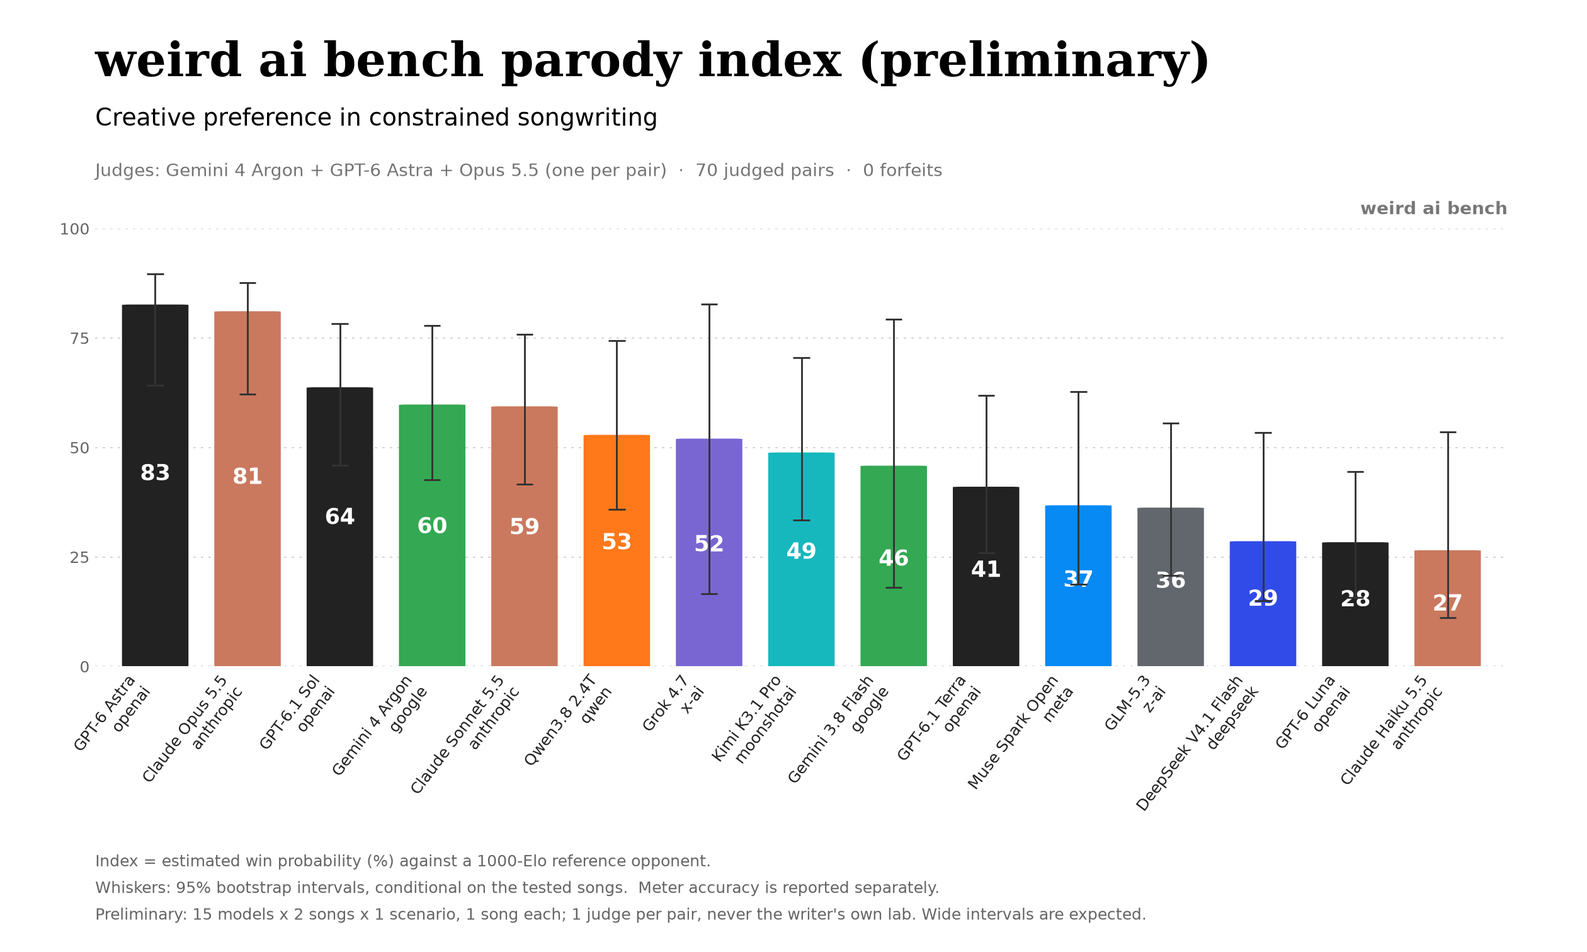
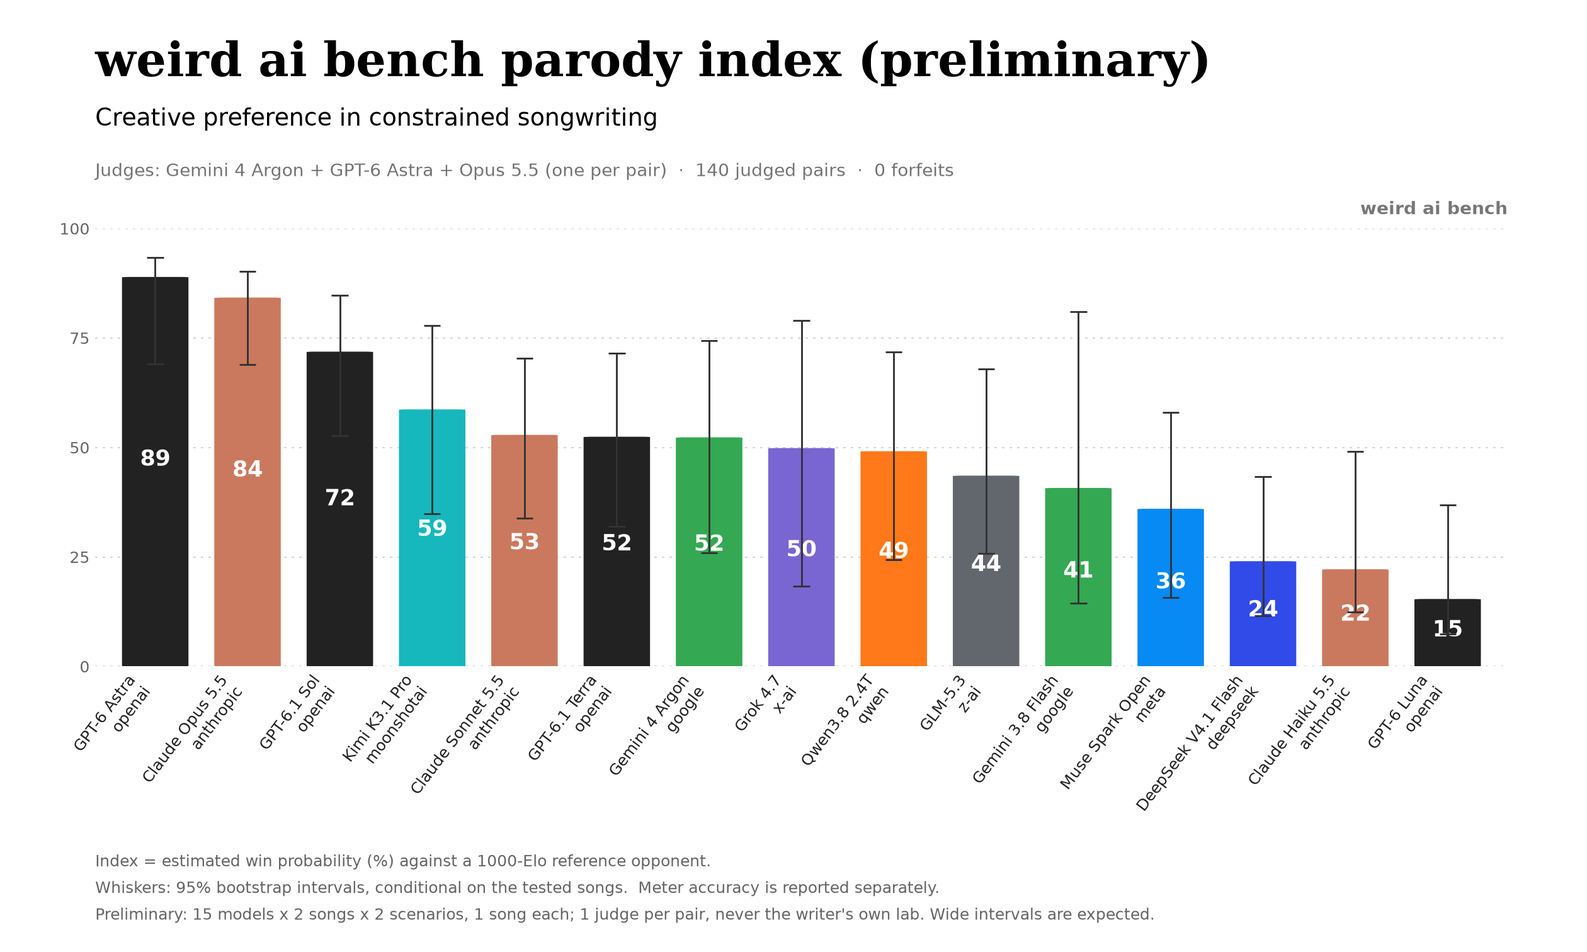
Don't count provider failures against models; add Boomer vs Zoomer results
A failed song used to forfeit all its pairs whatever the cause. Now the
client tags each error as the provider's (overload, 5xx, rate limits that
outlast the retries, network errors, an unavailable model) or the model's
(a refusal, every token spent before answering, empty replies). Model
failures still forfeit. Provider failures are saved with failed.kind
"provider", left out of leaderboard and stats with a warning naming them,
and listed under provider_failures in the JSON, so rerunning them fills the
gap. Runs saved before the kind existed count against the model unless their
error text is a recognisable service error.

README: the progress section now covers both scenarios (Dario vs Sam and
Boomer vs Zoomer), including one song rerun after a provider overload.

diff --git a/weird_ai_bench/leaderboard.py b/weird_ai_bench/leaderboard.py
@@ -36,6 +36,34 @@ def load_runs(paths: list[str]) -> list[dict]:
     return runs
 
 
+# Runs saved before failures recorded their kind: recognisable service errors are the
+# provider's; anything else keeps the old rule and counts against the model.
+_PROVIDER_FAILURE_TEXT = ("HTTP 4", "HTTP 5", "network error", "upstream_status", "high demand",
+                          "'code': 5", "'code': 429", "'code': 408", "rate limit", "overloaded")
+
+
+def failure_kind(run: dict) -> str | None:
+    """None for a finished song, else "provider" or "model" (see llm.LLMError)."""
+    failed = run.get("failed")
+    if not failed:
+        return None
+    if failed.get("kind") in ("provider", "model"):
+        return failed["kind"]
+    error = failed.get("error") or ""
+    return "provider" if any(t in error for t in _PROVIDER_FAILURE_TEXT) else "model"
+
+
+def split_provider_failures(runs: list[dict]) -> tuple[list[dict], list[dict]]:
+    """(runs that count, songs the provider failed). The second are left out of every ranking."""
+    keep = [r for r in runs if failure_kind(r) != "provider"]
+    return keep, [r for r in runs if failure_kind(r) == "provider"]
+
+
+def _provider_warning(dropped: list[dict]) -> str:
+    return (f"Left out {len(dropped)} song(s) the provider failed (not the model): "
+            + ", ".join(r["id"] for r in dropped) + ". Rerun them to fill the gap.")
+
+
 def group_key(run: dict) -> tuple:
     c = run["config"]
     template = json.dumps(asdict(result_spec(run)), sort_keys=True)
@@ -111,6 +139,7 @@ def gate_stats(runs: list[dict]) -> list[dict]:
     acc: dict[tuple, dict] = defaultdict(lambda: {"adherence": [], "turns": 0, "first": 0,
                                                     "final": 0, "retries": 0, "songs": 0,
                                                     "failed": 0, "judge": []})
+    runs, _ = split_provider_failures(runs)
     for r in runs:
         cfg = r["config"]
         spec = r.get("spec") or cfg.get("spec")
@@ -395,6 +424,9 @@ def leaderboard(runs: list[dict], client, judge_model: str | list[str], cache_pa
                             c["a_input_sha256"], c["b_input_sha256"])] = c
 
     warnings: list[str] = []
+    runs, dropped = split_provider_failures(runs)
+    if dropped:
+        warnings.append(_provider_warning(dropped))
     groups: dict[tuple, list[int]] = defaultdict(list)
     for i, r in enumerate(runs):
         groups[("all",) if mix else group_key(r)].append(i)
@@ -600,7 +632,8 @@ def leaderboard(runs: list[dict], client, judge_model: str | list[str], cache_pa
             "flip_rate": (sum(not c for c in judged) / len(judged)) if judged else None,
             "judge_agreement": agreed / shared if shared else None,
             "warnings": warnings,
-            "forfeits": sum(r.get("judge") == "forfeit" for r in records)}
+            "forfeits": sum(r.get("judge") == "forfeit" for r in records),
+            "provider_failures": [r["id"] for r in dropped]}
 
 
 def _bootstrap(runs, groups, comparisons, pair_idx, strengths, reps, seed, prior_sd):

diff --git a/weird_ai_bench/llm.py b/weird_ai_bench/llm.py
@@ -32,7 +32,17 @@ class Completion:
 
 
 class LLMError(RuntimeError):
-    pass
+    """A failed model call. `kind` says whose failure it was.
+
+    "provider": the service didn't deliver (overload, 5xx, rate limits that outlast the
+    retries, network errors, an unavailable model, account or request errors). The benchmark
+    doesn't hold these against the model. "model": the model answered but produced nothing
+    usable (a refusal, every token spent before answering, empty replies).
+    """
+
+    def __init__(self, message: str, kind: str = "provider"):
+        super().__init__(message)
+        self.kind = kind
 
 
 _RETRYABLE = (408, 429, 500, 502, 503, 504)
@@ -124,11 +134,13 @@ class OpenRouterClient:
         }
         delay, limit_delay = 2.0, 5.0
         last_err = ""
+        last_kind = "provider"
         attempt = limited = 0
         while True:
             t0 = time.monotonic()
             wait = None  # seconds a rate limit asked for, when it said
             rate_limited = False
+            last_kind = "provider"  # until this attempt shows the model answered with nothing
             try:
                 r = self._http.post(self.url, json=body, headers=headers)
             except httpx.HTTPError as e:
@@ -151,12 +163,14 @@ class OpenRouterClient:
                         if not text.strip() and choice.get("finish_reason") == "length":
                             raise LLMError(
                                 f"{model} used all {self.max_tokens} tokens before answering "
-                                f"(likely reasoning); raise --max-tokens or lower --effort")
+                                f"(likely reasoning); raise --max-tokens or lower --effort", kind="model")
                         if not text.strip() and choice.get("finish_reason") == "content_filter":
                             # A refusal repeats for the same request; retrying only spends money.
-                            raise LLMError(f"{model}: empty response (finish_reason=content_filter)")
+                            raise LLMError(f"{model}: empty response (finish_reason=content_filter)",
+                                           kind="model")
                         if not text.strip():
                             last_err = f"empty response (finish_reason={choice.get('finish_reason')})"
+                            last_kind = "model"
                         else:
                             return Completion(
                                 text=text,
@@ -189,7 +203,7 @@ class OpenRouterClient:
             attempt += 1
             time.sleep(delay + random.random())
             delay *= 2
-        raise LLMError(f"{model}: {last_err}")
+        raise LLMError(f"{model}: {last_err}", kind=last_kind)
 
 
 @dataclass

diff --git a/tests/test_cli.py b/tests/test_cli.py
@@ -30,7 +30,7 @@ def test_matrix_gives_each_sample_its_own_seed(monkeypatch, tmp_path):
 class FailingClient(ScriptedClient):
     def complete(self, model, messages):
         if len(self.calls) >= 1:
-            raise LLMError(f"{model} used all tokens before answering")
+            raise LLMError(f"{model} used all tokens before answering", kind="model")
         return super().complete(model, messages)
 
 
@@ -43,3 +43,21 @@ def test_failed_songs_are_saved(monkeypatch, tmp_path, capsys):
     assert run["scores"]["strict_pass"] is False
     assert main(["stats", str(tmp_path)]) == 0
     assert "failed" in capsys.readouterr().out
+    assert run["failed"]["kind"] == "model"
+
+
+class OverloadedClient(ScriptedClient):
+    def complete(self, model, messages):
+        if len(self.calls) >= 1:
+            raise LLMError(f"{model}: HTTP 503: overloaded")  # the client's default kind
+        return super().complete(model, messages)
+
+
+def test_provider_failures_are_saved_but_left_out_of_rankings(monkeypatch, tmp_path, capsys):
+    monkeypatch.setattr("weird_ai_bench.cli._client", lambda args: OverloadedClient())
+    assert main(["run", "--model", "a/x", "--model", "b/y", "--track", "freeform",
+                 "--out", str(tmp_path)]) == 1
+    (run,) = [json.loads(p.read_text()) for p in tmp_path.glob("*.json")]
+    assert run["failed"]["kind"] == "provider"
+    from weird_ai_bench.leaderboard import gate_stats
+    assert gate_stats([run]) == []

diff --git a/tests/test_leaderboard.py b/tests/test_leaderboard.py
@@ -660,6 +660,23 @@ def test_intervals_ignore_draws_that_left_a_model_out(tmp_path, monkeypatch):
     assert star["elo_lo"] > 1000  # not pinned to the prior's mean by draws without it
 
 
+def test_provider_failures_are_left_out_not_forfeited(tmp_path, monkeypatch):
+    a_wins(monkeypatch)
+    runs = [fake_run(f"r{i}", [f"m{i}/x"] * 2) for i in range(3)]
+    runs.append(fake_run("busy", ["m9/x"] * 2, failed="m9/x: HTTP 503: overloaded"))
+    runs[-1]["failed"]["kind"] = "provider"
+    runs.append(fake_run("legacy", ["m8/x"] * 2,
+                         failed="m8/x: {'message': 'high demand', 'code': 502}"))  # no kind saved
+    runs.append(fake_run("refused", ["m7/x"] * 2, failed="m7/x: empty response (finish_reason=content_filter)"))
+    out = leaderboard(runs, None, "j/judge", tmp_path / "c.jsonl", max_pairs=None, bootstrap=0)
+    assert out["provider_failures"] == ["busy", "legacy"]
+    assert any("provider failed" in w for w in out["warnings"])
+    models = {r["model"] for r in out["table"]}
+    assert "m9/x" not in models and "m8/x" not in models
+    assert "m7/x" in models and out["forfeits"] == 3  # a model failure still loses its pairs
+    assert [lb.failure_kind(r) for r in runs] == [None, None, None, "provider", "provider", "model"]
+
+
 def test_table_reports_meter_beside_elo(tmp_path, monkeypatch):
     a_wins(monkeypatch)
     runs = [fake_run("r0", ["a/x", "a/x"]), fake_run("r1", ["b/y", "b/y"])]

diff --git a/tests/test_llm.py b/tests/test_llm.py
@@ -148,3 +148,25 @@ def test_shared_prefix_is_its_own_breakpoint_and_never_sent_as_a_field():
     other = cache_marked("openai/gpt-5", [msg])[0]
     assert other == {"role": "user", "content": "SETUP...SONGS"}  # byte-identical, no hint field
     assert "cache_prefix" not in claude
+
+
+OVERLOADED = {"error": {"message": "The system is currently experiencing high demand", "code": 502}}
+REFUSED = {"choices": [{"message": {"content": ""}, "finish_reason": "content_filter"}]}
+EMPTY = {"choices": [{"message": {"content": ""}, "finish_reason": "stop"}]}
+OUT_OF_TOKENS = {"choices": [{"message": {"content": ""}, "finish_reason": "length"}]}
+
+
+@pytest.mark.parametrize("replies, kind", [
+    ([(200, OVERLOADED, None)] * 5, "provider"),         # overload outlasts the retries
+    ([(503, {"error": "busy"}, None)] * 5, "provider"),
+    ([(404, {"error": "upstream_status"}, None)], "provider"),  # model gone
+    ([(200, REFUSED, None)], "model"),
+    ([(200, OUT_OF_TOKENS, None)], "model"),
+    ([(200, EMPTY, None)] * 5, "model"),
+    ([(503, {"error": "busy"}, None)] * 4 + [(200, EMPTY, None)], "model"),  # last attempt decides
+])
+def test_errors_say_whether_the_provider_or_the_model_failed(monkeypatch, replies, kind):
+    client, _, _ = _scripted_http(monkeypatch, replies)
+    with pytest.raises(LLMError) as err:
+        client.complete("test/model", [])
+    assert err.value.kind == kind

diff --git a/weird_ai_bench/cli.py b/weird_ai_bench/cli.py
@@ -109,8 +109,9 @@ def cmd_run(args) -> int:
         try:
             result = song.run()
         except LLMError as e:
-            # Save what was written, so failures count against the model in stats.
-            jp, _ = save(song.failed_result(str(e)), args.out)
+            # Save what was written. A model failure counts against the model; a provider
+            # failure is kept for the record but left out of rankings, so it can be rerun.
+            jp, _ = save(song.failed_result(str(e), e.kind), args.out)
             _log(f"error: {e}\nsaved the partial song to {jp}")
             return 1
         # Preserve paid generation even if optional judging fails.
@@ -135,7 +136,7 @@ def _run_one(args, cfg: RunConfig) -> dict:
     try:
         result = song.run()
     except LLMError as e:
-        result = song.failed_result(str(e))
+        result = song.failed_result(str(e), e.kind)
         save(result, args.out)
         return result
     save(result, args.out)

diff --git a/weird_ai_bench/orchestrate.py b/weird_ai_bench/orchestrate.py
@@ -403,11 +403,15 @@ class Song:
         self.current = None
         return self._result(time.time() - self.started)
 
-    def failed_result(self, error: str) -> dict:
-        """The result of a run that stopped early: what was written, with the rest scored 0."""
+    def failed_result(self, error: str, kind: str = "model") -> dict:
+        """The result of a run that stopped early: what was written, with the rest scored 0.
+
+        `kind` is "provider" when the service failed (the leaderboard leaves the song out and
+        it can be rerun) or "model" when the model did (the song forfeits its pairs).
+        """
         elapsed = time.time() - self.started if self.started else 0.0
         result = self._result(elapsed, failed=True)
-        result["failed"] = {"error": error, "section": self.current}
+        result["failed"] = {"error": error, "section": self.current, "kind": kind}
         return result
 
     def _intended_author(self, key: str):

diff --git a/tests/test_run.py b/tests/test_run.py
@@ -207,7 +207,7 @@ def test_failed_run_is_kept_with_zeros_for_the_rest(fail_on, section, written, a
     with pytest.raises(LLMError):
         song.run()
     r = song.failed_result("boom")
-    assert r["failed"] == {"error": "boom", "section": section}
+    assert r["failed"] == {"error": "boom", "section": section, "kind": "model"}
     assert not r["scores"]["strict_pass"]
     assert [k for k, p in r["parts"].items() if p["lines"]] == written
     assert all(p["author"] for p in r["parts"].values())

diff --git a/README.md b/README.md
@@ -35,38 +35,41 @@ The benchmark attempts to evaluate the following criteria:
 
 ![Preliminary parody index for 15 models, with wide uncertainty intervals.](docs/img/progress-index.png)
 
-These results are from a preliminary, limited `n` run. As the sample size is small, most of the models' CIs overlap. However, it's already clear  that GPT-6 Astra and Claude Opus 5.5 are a cut above the rest of the models in this benchmark.
+These results are from a preliminary, limited `n` run. As the sample size is small, most of the models' CIs overlap. However, GPT-6 Astra and Claude Opus 5.5 already have intervals entirely above GLM-5.3, Muse Spark Open, DeepSeek V4.1 Flash, Claude Haiku 5.5, and GPT-6 Luna.
 
-For the full run, I'm planning on expanding this to four songs, with 2 parodies generated per model per song. I am also considering adding a second scenario to address the potential OpenAI/Anthropic model self-bias to Sam/Dario confound. My current idea for the second scenario is `Boomer vs. Zoomer`.
+To address the potential OpenAI/Anthropic model self-bias (the Sam/Dario confound), I added the `Boomer vs Zoomer` scenario. Fitted on half the data with wider intervals, GPT-6 Astra and Claude Opus 5.5 still emerge as leaders.
 
-So far I've run 15 models on two songs with one scenario. In total, that's: **30 attempted songs, 30 songs completed, 70 song pairs compared, and $12.79 in API costs.**
+So far I've run 15 models on two songs with two scenarios. In total, that's: **60 attempted songs, 60 songs completed, 140 song pairs compared, and $27.14 in API costs.**
 
 The songs are:
 
 - [APT.](https://www.youtube.com/watch?v=ekr2nIex040) — ROSÉ and Bruno Mars
 - [I Had Some Help](https://www.youtube.com/watch?v=PCBZOSM8h5U) — Post Malone (feat. Morgan Wallen)
 
-For the scenario, Singer 1 plays Dario Amodei and Singer 2 plays Sam Altman. They sing to each other as the heads of rival AI companies, each pushing their own idea of how AI should be built and released.
+The scenarios are:
 
-Every model wrote one parody of each song per scenario and wrote both singers' parts. Each pair of songs got one judge from Gemini 4 Argon, GPT-6 Astra or Opus 5.5, never one from the same company as either song's writer, and was judged in both orders. If the verdict flipped when the order was swapped, it counted as a tie; that happened on 19% of pairs. Muse Wonder and Qwen3.8 Max were pulled from OpenRouter the day I ran this, before they wrote anything, so Muse Spark Open and Qwen3.8 2.4T took their spots.
+- **Dario vs. Sam:** Singer 1 plays Dario Amodei and Singer 2 plays Sam Altman. They sing to each other as the heads of rival AI companies, each pushing their own idea of how AI should be built and released.
+- **Boomer vs. Zoomer:** Singer 1 plays a baby boomer and Singer 2 plays a member of Gen Z. They sing to each other and can't understand each other's generation.
+
+Every model wrote one parody of each song per scenario and wrote both singers' parts. Each pair of songs got one judge from Gemini 4 Argon, GPT-6 Astra or Opus 5.5, never one from the same company as either song's writer, and was judged in both orders. If the verdict flipped when the order was swapped, it counted as a tie; that happened on 15% of pairs. Muse Wonder and Qwen3.8 Max were pulled from OpenRouter the day I ran this, before they wrote anything, so Muse Spark Open and Qwen3.8 2.4T took their spots. GPT-6 Astra's I Had Some Help parody for Boomer vs. Zoomer failed because the provider was overloaded, so I reran it. Provider errors don't count against a model.
 
 | # | Model | Index | 95% interval | Meter | Cost per song |
 |--:|---|--:|--:|--:|--:|
-| 1 | GPT-6 Astra | 83 | 64–90 | 80% | $0.689 |
-| 2 | Claude Opus 5.5 | 81 | 62–88 | 97% | $0.270 |
-| 3 | GPT-6.1 Sol | 64 | 46–78 | 100% | $0.114 |
-| 4 | Gemini 4 Argon | 60 | 43–78 | 100% | $0.608 |
-| 5 | Claude Sonnet 5.5 | 59 | 42–76 | 95% | $0.220 |
-| 6 | Qwen3.8 2.4T | 53 | 36–74 | 100% | $0.219 |
-| 7 | Grok 4.7 | 52 | 17–83 | 98% | $0.551 |
-| 8 | Kimi K3.1 Pro | 49 | 33–70 | 97% | $0.175 |
-| 9 | Gemini 3.8 Flash | 46 | 18–79 | 93% | $0.469 |
-| 10 | GPT-6.1 Terra | 41 | 26–62 | 100% | $0.058 |
-| 11 | Muse Spark Open | 37 | 19–63 | 100% | $0.198 |
-| 12 | GLM-5.3 | 36 | 21–56 | 100% | $0.051 |
-| 13 | DeepSeek V4.1 Flash | 29 | 15–53 | 98% | $0.020 |
-| 14 | GPT-6 Luna | 28 | 16–45 | 100% | $0.011 |
-| 15 | Claude Haiku 5.5 | 27 | 11–54 | 98% | $0.019 |
+| 1 | GPT-6 Astra | 89 | 69–93 | 89% | $0.778 |
+| 2 | Claude Opus 5.5 | 84 | 69–90 | 98% | $0.270 |
+| 3 | GPT-6.1 Sol | 72 | 53–85 | 100% | $0.128 |
+| 4 | Kimi K3.1 Pro | 59 | 35–78 | 98% | $0.181 |
+| 5 | Claude Sonnet 5.5 | 53 | 34–70 | 92% | $0.186 |
+| 6 | GPT-6.1 Terra | 52 | 32–72 | 97% | $0.066 |
+| 7 | Gemini 4 Argon | 52 | 26–74 | 100% | $0.619 |
+| 8 | Grok 4.7 | 50 | 18–79 | 97% | $0.667 |
+| 9 | Qwen3.8 2.4T | 49 | 24–72 | 100% | $0.247 |
+| 10 | GLM-5.3 | 44 | 26–68 | 99% | $0.070 |
+| 11 | Gemini 3.8 Flash | 41 | 14–81 | 90% | $0.469 |
+| 12 | Muse Spark Open | 36 | 16–58 | 97% | $0.187 |
+| 13 | DeepSeek V4.1 Flash | 24 | 12–43 | 99% | $0.019 |
+| 14 | Claude Haiku 5.5 | 22 | 12–49 | 95% | $0.022 |
+| 15 | GPT-6 Luna | 15 | 7–37 | 99% | $0.012 |
 
 The index and meter work the same way as in the initial benchmark below. With only a few comparisons per model the intervals are really wide right now, so models whose bars overlap aren't actually ranked against each other yet.
 <!-- progress:end -->

diff --git a/docs/reference.md b/docs/reference.md
@@ -126,7 +126,7 @@ Scoring version 6 stops reading a reply with no `<lyrics>` tags as lyrics; resco
 
 `stats` reports, per template, model, track, and guidance: songs, failed songs, line adherence, first-try pass rate per turn, final pass rate, and retries per song. A self-duet counts as one song.
 
-`leaderboard` compares songs written under the same settings, two at a time. Settings include the template, scenario text, reference lyrics, supplied sections, names, chorus, track, guidance, tolerance, temperature, effort, the conversation history form, and on the strict track the gates and retries. Pairs are picked so every song is compared about equally often, up to `--max-pairs`, chosen without regard to which pairs are cached or failed. Each pair is judged twice with the order swapped, and a disagreement counts as a tie, which cancels position bias; the output reports how often that happened. A song that failed mid-run loses to every finished song without a judge call.
+`leaderboard` compares songs written under the same settings, two at a time. Settings include the template, scenario text, reference lyrics, supplied sections, names, chorus, track, guidance, tolerance, temperature, effort, the conversation history form, and on the strict track the gates and retries. Pairs are picked so every song is compared about equally often, up to `--max-pairs`, chosen without regard to which pairs are cached or failed. Each pair is judged twice with the order swapped, and a disagreement counts as a tie, which cancels position bias; the output reports how often that happened. A song whose model failed mid-run (a refusal, every token spent before answering, empty replies) loses to every finished song without a judge call. A song the provider failed (overload, 5xx, rate limits that outlast the retries, network errors, an unavailable model) is saved with `failed.kind: provider` and left out of `leaderboard` and `stats` with a warning naming it, so rerunning it fills the gap; the JSON lists them under `provider_failures`. Runs saved before the kind was recorded count against the model unless their error text is a recognisable service error.
 
 Results are fitted with a weighted additive Bradley-Terry model: a song's strength is the sum of its singers' model strengths, each weighted by that singer's share of the generated lines as performed. That's what lets a benchmark of shared songs rank individual models, and it credits a repeated chorus to whoever wrote it. The fit puts a normal prior on each strength (`--prior-sd`, default 1 logit, about 170 Elo), so a model that wins every game still gets a finite rating. The 95% intervals come from `--bootstrap` resamples of the songs within each group; treat models with overlapping intervals as tied. A model's interval uses only the resamples that include at least one of its compared songs. With one song per model per group, a resample often leaves a model out, and counting those draws would pin its interval to the prior's mean. Win rate counts only the games where a model's share differed between the two songs. Use at least three models or `--include-self`: with two, A×B and B×A have the same singers and differ only in who wrote which part, so the leaderboard warns that its ranking rests on that alone. Judgments are cached in `judgments.jsonl`, keyed by the judge, the judge prompt version, and a hash of everything the judge sees for each song, so re-running only pays for new pairs, and a rescored run is judged again. Version 5 shows the judge stress, pause, and guessed-pronunciation misses, so cached version 4 judgments aren't reused. Next to each model's rating, the table shows `adher` (composite adherence), `syll` (count-pass including declared slack/tolerance), and `copy` (the share of checked lines copied from the original, which `syll` doesn't penalize). These diagnostics are not folded into the judged ranking. The JSON includes the individual component metrics defined below.
 

diff --git a/AGENTS.md b/AGENTS.md
@@ -99,8 +99,15 @@ Tests use `ScriptedClient`, so they don't need the network.
   lines as performed, so a repeated chorus counts for its writer and a
   self-duet's strength is its model's. It's a MAP fit with a N(0, 1) prior, and
   the intervals come from resampling runs within each group.
-- **Failures count.** A song whose API calls failed is saved with what was
-  written; it scores 0 on the missing parts and forfeits its leaderboard pairs.
+- **Model failures count; provider failures don't.** A song whose model
+  refused, spent every token before answering, or kept replying with nothing is
+  saved with what was written; it scores 0 on the missing parts and forfeits
+  its leaderboard pairs. When the service fails instead (overload, 5xx, rate
+  limits that outlast the retries, network errors, a model that's been pulled),
+  the song is saved with `failed.kind: provider`, left out of `stats` and
+  `leaderboard`, and can be rerun. The client decides the kind where the error
+  happens; older runs without one count against the model unless their error
+  text is a recognisable service error.
 - **Grouping is by content.** Leaderboard groups compare the template,
   scenario text, reference lyrics, and supplied sections by content, never by
   file name or id. Settings that change outcomes (tolerance, temperature,
